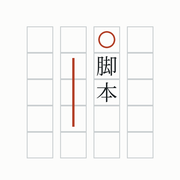
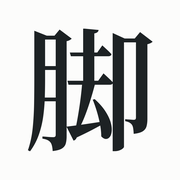
Add files via upload

Changed region(s): [[0.1389, 0.1389, 0.8611, 0.8889]]

diff --git a/sw.js b/sw.js
@@ -2,8 +2,8 @@
    起動時は端末に保存した版をすぐ使い、裏で新しい版を取りに行く（更新は次回の起動から反映）。
    ファイルを更新したら、下の CACHE の番号を1つ増やすと、確実に入れ替わる。
    選べる書体のうち、最初の明朝体（細め）以外のフォントは、初めて使ったときに端末に保存する。 */
-const CACHE='genko-v41';
-const FILES=['./','index.html','firebase-config.js','firebase.js','jspdf.umd.min.js','notoserifjp-300-v.ttf','notoserifjp-300-screen.woff2','manifest.webmanifest','icon-180.png','icon-192.png','icon-512.png'];
+const CACHE='genko-v42';
+const FILES=['./','index.html','firebase-config.js','firebase.js','jspdf.umd.min.js','notoserifjp-300-v.ttf','notoserifjp-300-screen.woff2','manifest.webmanifest','icon-180.png','icon-192.png','icon-512.png','favicon-16.png','favicon-32.png','favicon-48.png'];
 self.addEventListener('install',e=>{ e.waitUntil(caches.open(CACHE).then(c=>c.addAll(FILES)).then(()=>self.skipWaiting())); });
 self.addEventListener('activate',e=>{ e.waitUntil(caches.keys().then(ks=>Promise.all(ks.filter(k=>k!==CACHE).map(k=>caches.delete(k)))).then(()=>self.clients.claim())); });
 self.addEventListener('fetch',e=>{

diff --git a/index.html b/index.html
@@ -11,7 +11,9 @@
 <meta name="apple-mobile-web-app-status-bar-style" content="default">
 <link rel="manifest" href="manifest.webmanifest">
 <link rel="apple-touch-icon" href="icon-180.png">
-<link rel="icon" href="icon-192.png">
+<link rel="icon" type="image/png" sizes="16x16" href="favicon-16.png">
+<link rel="icon" type="image/png" sizes="32x32" href="favicon-32.png">
+<link rel="icon" type="image/png" sizes="48x48" href="favicon-48.png">
 <style>
 /* 画面用のフォント（縦書き用の字形の情報入り）。PDFには別のファイル（notoserifjp-300-v.ttf。Macのプレビューでも表示できるよう、不要な情報を整理したもの）を使う */
 @font-face{font-family:"Noto Serif JP";src:url("notoserifjp-300-screen.woff2") format("woff2");font-weight:400 700;font-display:swap}
